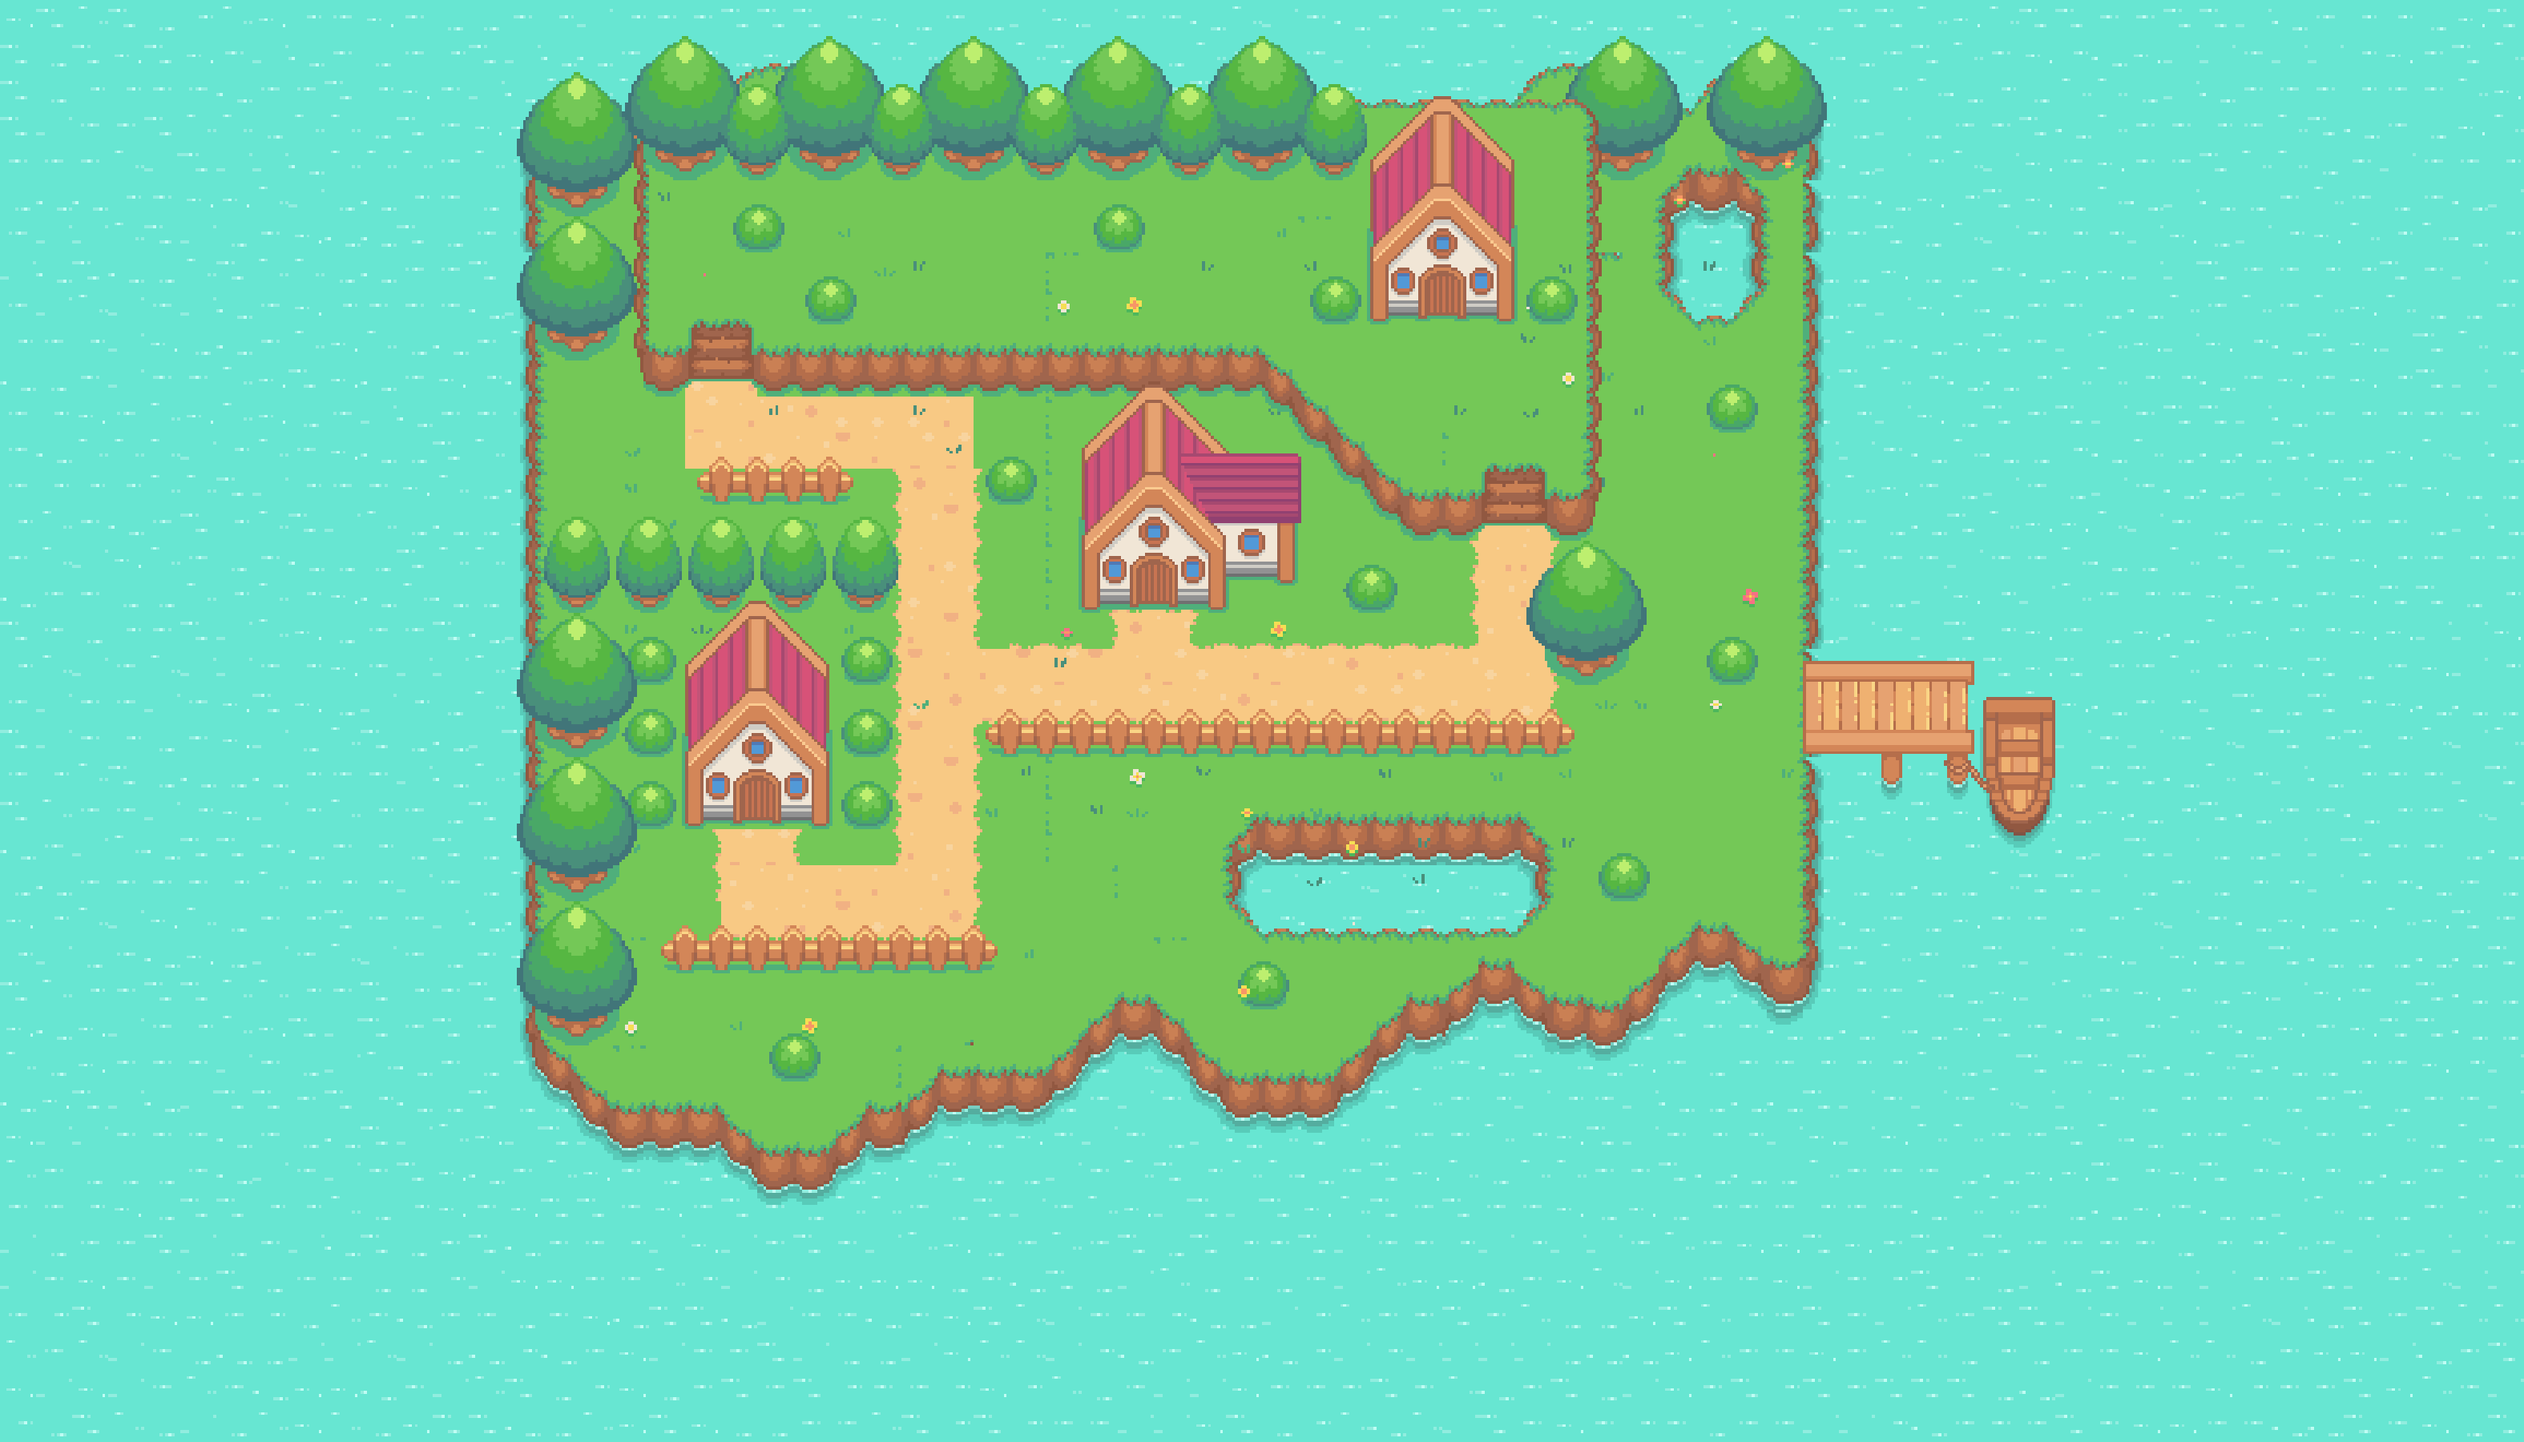
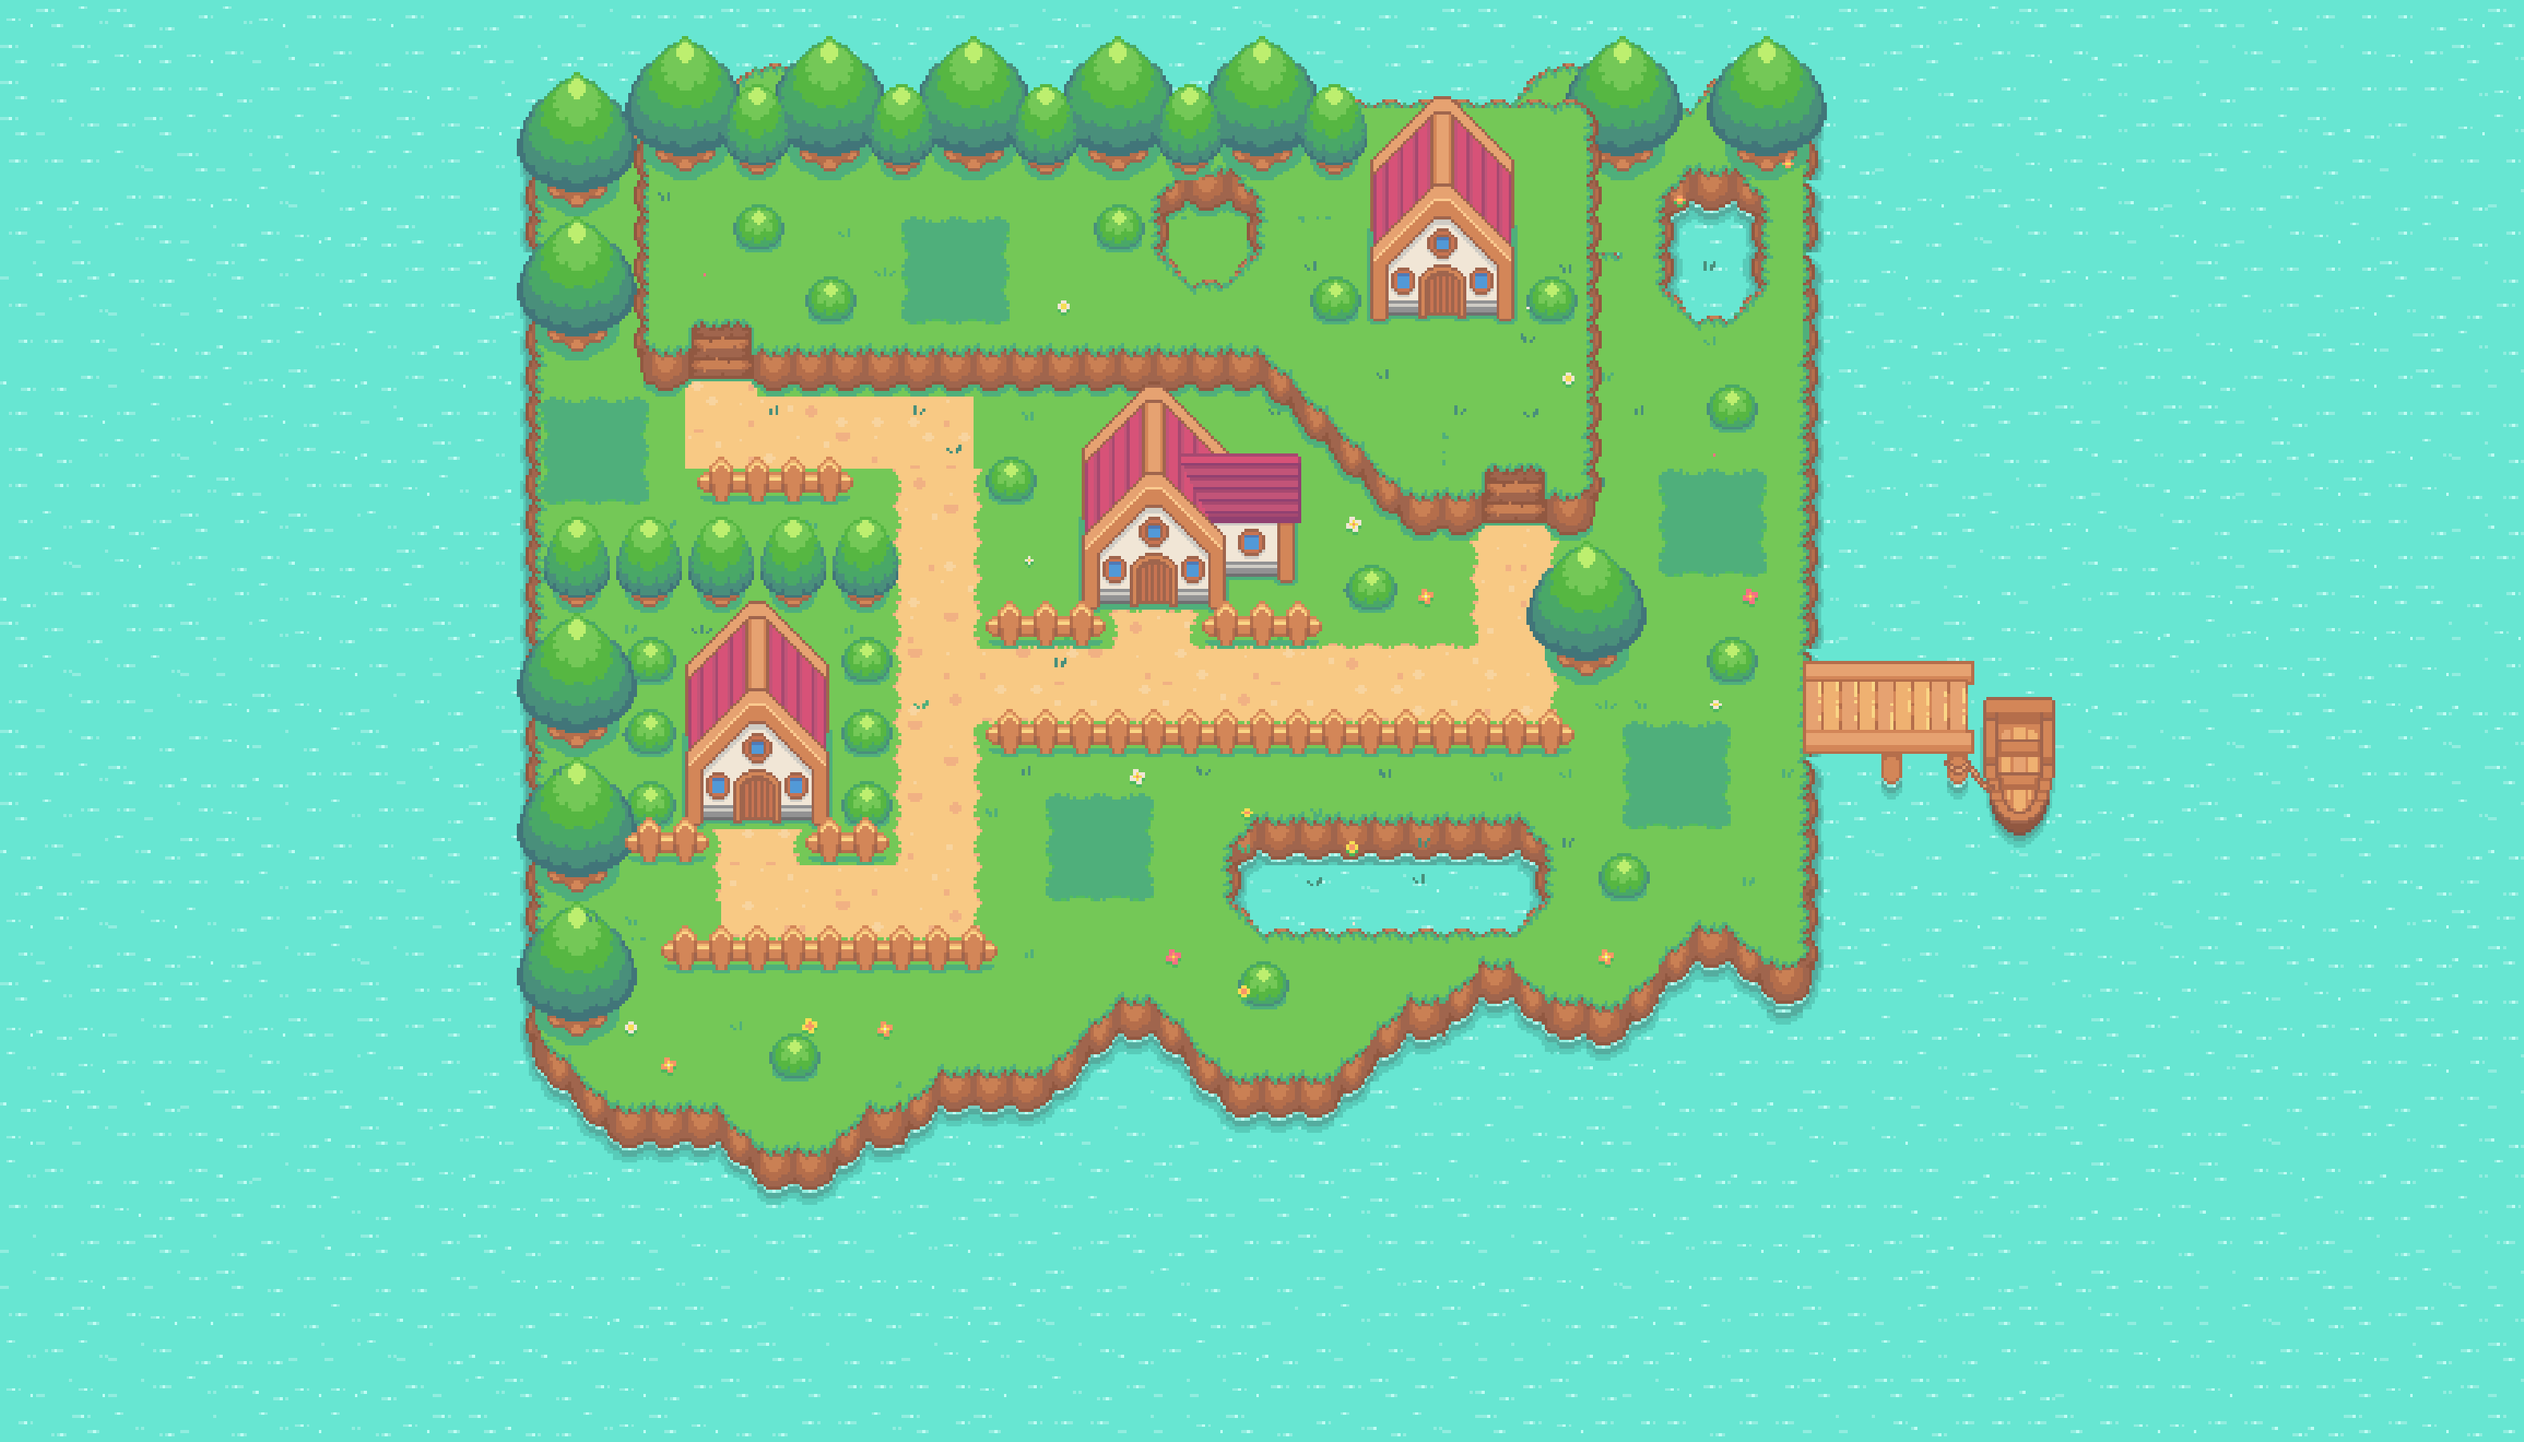
added some more details for the map and rendered the player character

diff --git a/index.js b/index.js
@@ -4,9 +4,26 @@ const ctx = canvas.getContext("2d");
 ctx.fillStyle = "white";
 ctx.fillRect(0, 0, canvas.width, canvas.height);
 
-const image = new Image();
-image.src = "../images/GameMap.png";
+// player character initializing
+const playerImage = new Image();
+playerImage.src = "../images/playerDown.png";
 
-image.onload = () => {
-    ctx.drawImage(image, -650, -530);
+// background initializing
+const backgroundImage = new Image();
+backgroundImage.src = "../images/GameMap.png";
+
+// rendering
+backgroundImage.onload = () => {
+    ctx.drawImage(backgroundImage, -930, -490);
+    ctx.drawImage(
+        playerImage,
+        0,
+        0,
+        playerImage.width / 4,
+        playerImage.height,
+        canvas.width / 2 - playerImage.width / 4 / 2,
+        canvas.height / 2 - playerImage.height / 2,
+        playerImage.width / 4,
+        playerImage.height
+    );
 };
